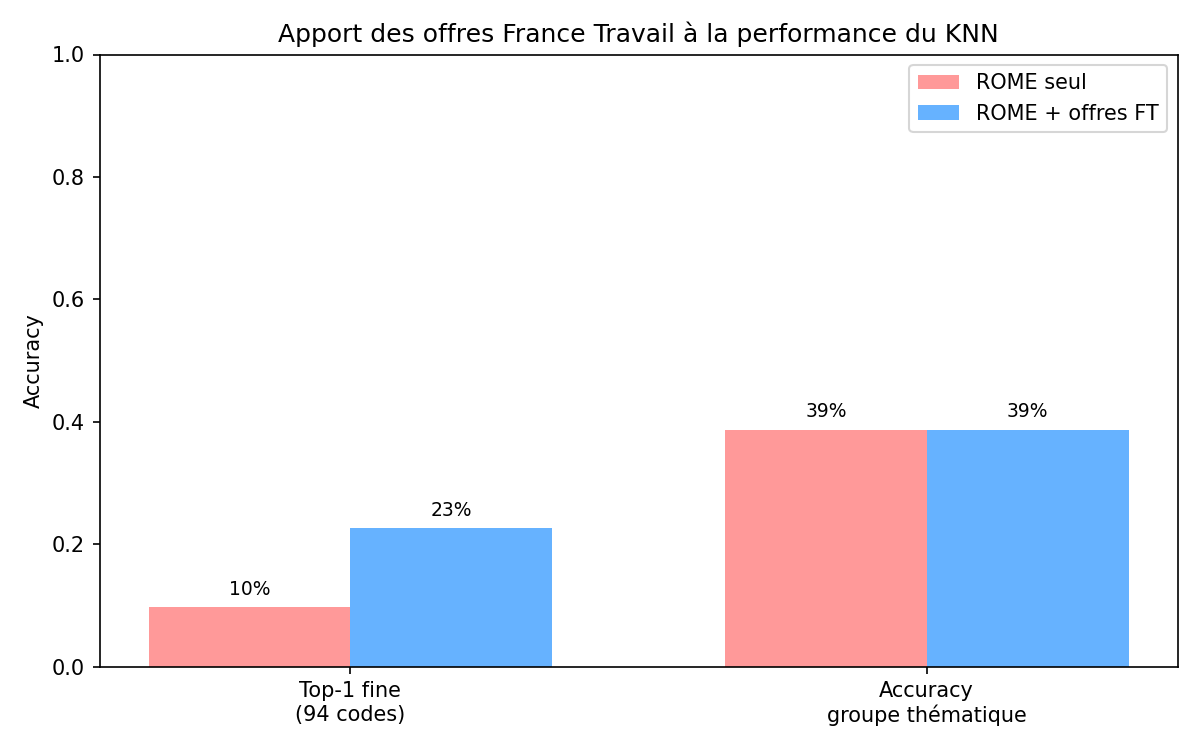
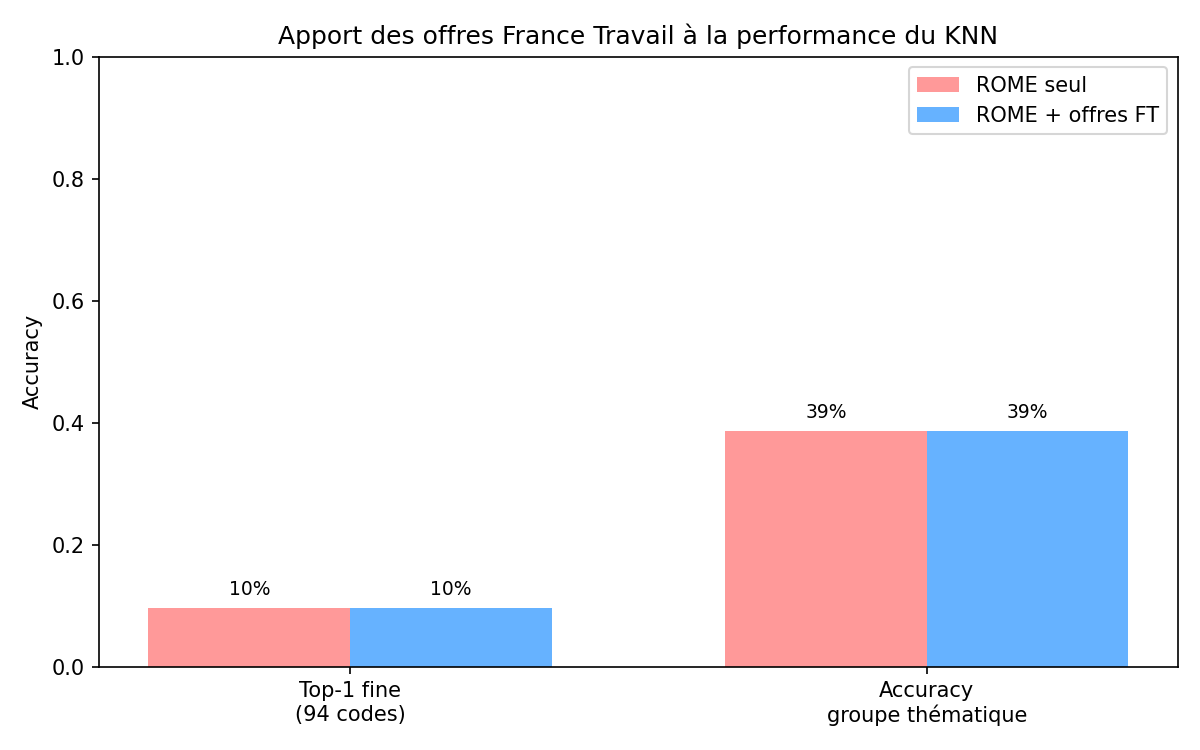
fixer les problématique de raisonnement d'algo ML pour les métiers hors périmetre

diff --git a/pages/ml.py b/pages/ml.py
@@ -2,10 +2,26 @@ import os
 import sys
 import argparse
 import traceback
-# Permet d'importer data/* quand on lance ce fichier directement (python pages/ml.py)
-_ROOT = os.path.dirname(os.path.dirname(os.path.abspath(__file__)))
+
+import warnings
+from sklearn.exceptions import EfficiencyWarning
+
+# Ignorer explicitement les UserWarning spécifiques de scikit-learn
+warnings.filterwarnings("ignore", category=UserWarning, module="sklearn")
+
+# ==============================================================================
+# GESTION DES CHEMINS ABSOLUS (Évite les erreurs de dossier courant / vide)
+# ==============================================================================
+# Calcule dynamiquement la racine du projet 'guide-carriere' peu importe l'appel CLI
+_CURRENT_DIR = os.path.dirname(os.path.abspath(__file__))
+if os.path.basename(_CURRENT_DIR) == "pages":
+    _ROOT = os.path.dirname(_CURRENT_DIR)  # Remonte d'un cran si on est dans /pages
+else:
+    _ROOT = _CURRENT_DIR
+
 if _ROOT not in sys.path:
     sys.path.insert(0, _ROOT)
+    
 import base64
 import io
 import time
@@ -42,7 +58,12 @@ except Exception:
 
 class ROMEAIEngine:
     def __init__(self, data_path="data/"):
-        self.data_path = data_path
+        # Version ultra-robuste : on colle la racine du projet avec le dossier data
+        # Plus besoin de vérifier si c'est absolu ou non, ça marche à tous les coups !
+        self.data_path = os.path.join(_ROOT, "data")
+
+        print(f"📂 [MOTEUR ML] Chemin absolu de DATA utilisé : {self.data_path}")
+        
         self.df_trained = self._build_knowledge_base()
 
         if self.df_trained.empty:
@@ -69,6 +90,7 @@ class ROMEAIEngine:
             def safe_read(name):
                 path = os.path.join(self.data_path, name)
                 if not os.path.exists(path):
+                    print(f"❌ Fichier introuvable : {path}")
                     return pd.DataFrame()
                 return pd.read_csv(path, sep=None, engine='python',
                                    encoding='utf-8', on_bad_lines='skip')
@@ -133,21 +155,36 @@ class ROMEAIEngine:
             print(f"❌ Erreur build_knowledge_base : {e}")
             return pd.DataFrame()
 
-    def predict(self, user_input, top_n=3):
+    def predict(self, user_input, top_n=3, threshold_score=10.0):
         if not user_input or len(user_input) < 30:
             return "SIGNAL_INSUFFISANT"
+        
         user_vec = self.vectorizer.transform([user_input.lower()])
+        
+        # Si le vecteur est complètement vide (aucun mot du CV n'est connu dans le dictionnaire M18)
+        if user_vec.nnz == 0:
+            return "HORS_PERIMETRE"
+        
         distances, indices = self.knn_model.kneighbors(user_vec, n_neighbors=top_n)
 
         results = []
         for i, idx in enumerate(indices[0]):
             row = self.df_trained.iloc[idx]
-            results.append({
-                'metier': row['libelle_rome'],
-                'code': row['code_rome'],
-                'source': row['source'],
-                'score': round((1 - distances[0][i]) * 100, 1)
-            })
+            score = round((1 - distances[0][i]) * 100, 1)
+            
+            # FILTRE INDIVIDUEL : On ne garde que les métiers qui dépassent le seuil
+            if score >= threshold_score:
+                results.append({
+                    'metier': row['libelle_rome'],
+                    'code': row['code_rome'],
+                    'source': row['source'],
+                    'score': round((1 - distances[0][i]) * 100, 1)
+                })
+            
+       # Si aucun métier ne dépasse le seuil, le profil est hors-périmètre
+        if not results:
+            return "HORS_PERIMETRE"
+        
         return results
 
     # ----------------------------------------------------------
@@ -214,7 +251,7 @@ class ROMEAIEngine:
         plt.ylabel("Vrai groupe (annotation manuelle)")
         plt.xlabel("Groupe prédit (KNN)")
         plt.tight_layout()
-        plt.savefig("data/validation_accuracy_groupe.png", dpi=150)
+        plt.savefig(os.path.join(self.data_path, "validation_accuracy_groupe.png"), dpi=150)
         plt.close()
         print(f"📈 Figure : data/validation_accuracy_groupe.png")
 
@@ -278,7 +315,7 @@ class ROMEAIEngine:
             ax.text(i - width/2, a + 0.02, f'{a:.0%}', ha='center', fontsize=9)
             ax.text(i + width/2, b + 0.02, f'{b:.0%}', ha='center', fontsize=9)
         plt.tight_layout()
-        plt.savefig("data/ablation_offres.png", dpi=150)
+        plt.savefig(os.path.join(self.data_path, "ablation_offres.png"), dpi=150)
         plt.close()
         print(f"📈 Figure : data/ablation_offres.png")
 
@@ -334,9 +371,10 @@ class ROMEAIEngine:
                 "n_codes_uniques": len(c),
             })
 
-        df_detail = pd.DataFrame(detail).sort_values("stabilite", ascending=False)
-        df_detail.to_csv("data/non_determinism_detail.csv", index=False)
-
+       # Convertir la liste en DataFrame Pandas avant l'export
+        df_export = pd.DataFrame(detail)
+        df_export.to_csv(os.path.join(self.data_path, "non_determinism_detail.csv"), index=False)
+        
         stab_moy = float(np.mean(list(stabilite_par_cv.values())))
         stab_med = float(np.median(list(stabilite_par_cv.values())))
         n_unstable = sum(1 for s in stabilite_par_cv.values() if s < 0.7)
@@ -360,7 +398,7 @@ class ROMEAIEngine:
         plt.title(f"Non-déterminisme du modèle KNN ({n_runs} runs avec resampling)")
         plt.legend()
         plt.tight_layout()
-        plt.savefig("data/validation_non_determinisme.png", dpi=150)
+        plt.savefig(os.path.join(self.data_path, "validation_non_determinisme.png"), dpi=150)
         plt.close()
         print(f"📈 Figure : data/validation_non_determinisme.png")
 
@@ -439,17 +477,46 @@ def execute(n, text, pdf, c1):
             source = " ".join([p.extract_text() for p in reader.pages])
         except Exception:
             return dbc.Alert("Erreur PDF", color="danger"), ""
-
-    recs = get_engine().predict(source)
+        
+    # Appel de la prédiction avec notre sécurité
+    recs = get_engine().predict(source, threshold_score=10.0)
+    
     if recs == "SIGNAL_INSUFFISANT":
         return dbc.Alert("Texte trop court pour l'IA", color="warning"), ""
 
+    if recs == "HORS_PERIMETRE":
+        return html.Div([
+            dbc.Alert(
+                [
+                    html.H5("🚫 Profil hors périmètre", className="alert-heading fw-bold"),
+                    html.P(
+                        "Les compétences détectées ne correspondent pas aux métiers de l'Informatique et du Numérique (Famille ROME M18). "
+                        "Le modèle a refusé la classification pour éviter un faux résultat."
+                    )
+                ], 
+                color="white", 
+                className="mt-4 glass-card"
+            )
+        ]), source
+
     return html.Div([
         html.H4("Métiers Recommandés :", className="text-white mt-4"),
-        html.Div([html.Div([
-            html.Span(r['metier'], className="result-highlight"),
-            html.Small(f" Match : {r['score']}%")
-        ], className="glass-card p-3 mb-2") for r in recs])
+        html.Div([
+            html.Div([
+                html.Div([
+                    html.Span(r['metier'], className="result-highlight"),
+                    html.Small(f" Match : {r['score']}%", className="text-white fw-bold", style={"fontSize": "1.1em"})
+                ], className="d-flex justify-content-between align-items-center mb-1"),
+                
+                # Barre de progression personnalisée
+                dbc.Progress(
+                    value=r['score'], 
+                    color="success" if r['score'] >= 20.0 else "warning",
+                    className="mb-2",
+                    style={"height": "12px"}
+                )
+            ], className="glass-card p-3 mb-2") for r in recs
+        ])
     ]), source
 
 # ==========================================================
